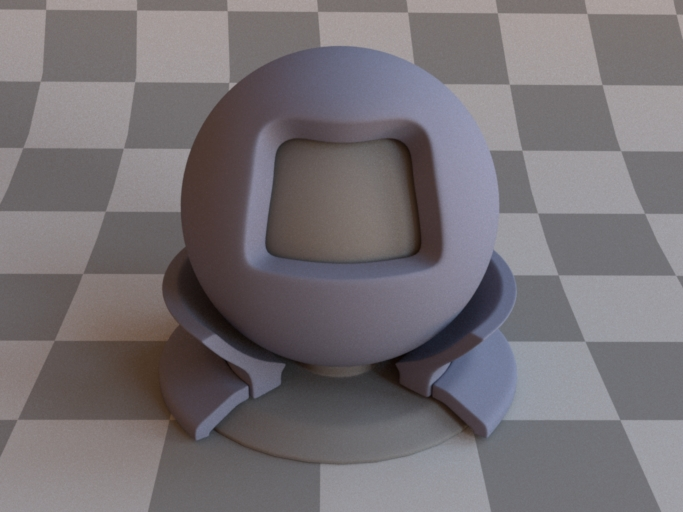
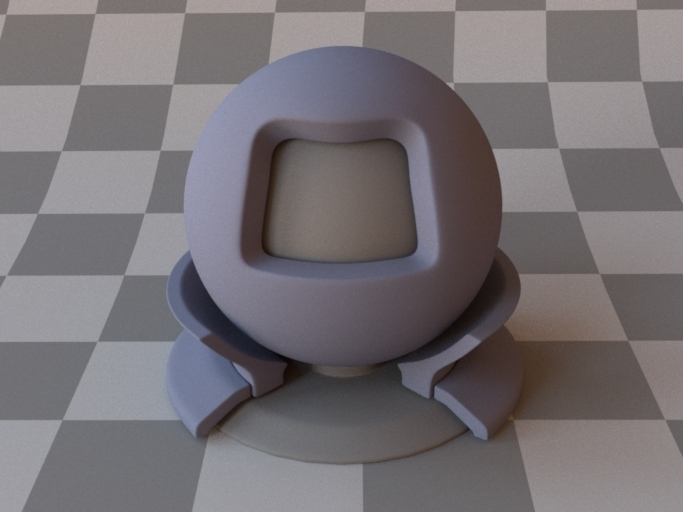
got the coating to work; more documentation
--HG--
branch : materials-0.2.1

diff --git a/src/bsdfs/coating.cpp b/src/bsdfs/coating.cpp
@@ -30,10 +30,45 @@ MTS_NAMESPACE_BEGIN
  *      numerically or using a known material name. \default{\texttt{bk7} / 1.5046}}
  *     \parameter{extIOR}{\Float\Or\String}{Exterior index of refraction specified
  *      numerically or using a known material name. \default{\texttt{air} / 1.000277}}
+ *     \parameter{sigmaA}{\Spectrum\Or\Texture}{Absorption coefficient within the layer. \default{0}}
+ *     \parameter{thickness}{\Float}{Thickness of the absorbing layer (given in inverse units of \code{sigmaA})\default{1}}
+ * }
+ * 
+ * \renderings{
+ *     \rendering{Coated rough copper (lower exposure, \lstref{coating-roughcopper})}
+ *         {bsdf_coating_roughconductor}
+ *     \rendering{Coated rough plastic}
+ *         {bsdf_coating_roughplastic}
  * }
  *
- * This class implements a smooth dielectric coating in the style of 
- * Weidlich and Wilkie \cite{Weidlich2007Arbitrarily}.
+ * This plugin implements a smooth dielectric coating in the style of the
+ * paper ``Arbitrarily Layered Micro-Facet Surfaces'' by Weidlich and 
+ * Wilkie \cite{Weidlich2007Arbitrarily}. Any non-transmissive model can
+ * be coated, and multiple layers can be applied in sequence. This allows
+ * designing custom materials like car paint.
+ *
+ * The coating layer can optionally be filled with an absorbing medium, 
+ * in which case this model also accounts for the directionally dependent
+ * extinction within the layer.
+ *
+ * Evaluating the internal component of this model entails refracting the 
+ * incident and exitant rays through the dielectric interface, followed by
+ * querying the nested material with this modified direction pair. The result 
+ * is attenuated by the two Fresnel transmittances. Note that this model does
+ * not attempt to handle illumination that is reflected by the interior of the 
+ * coating---this energy is essentially lost.
+ *
+ * \vspace{4mm}
+ *
+ * \begin{xml}[caption=Rough copper coated with a transparent layer of lacquer, label=lst:coating-roughcopper]
+ * <bsdf type="coating">
+ *     <float name="intIOR" value="1.7"/>
+ *     <bsdf type="roughconductor">
+ *         <string name="material" value="Cu"/>
+ *         <float name="alpha" value="0.1"/>
+ *     </bsdf>
+ * </bsdf>
+ * \end{xml}
  */
 class SmoothCoating : public BSDF {
 public:
@@ -45,12 +80,12 @@ public:
 		/* Specifies the external index of refraction at the interface */
 		m_extIOR = lookupIOR(props, "extIOR", "air");
 		
-		/* Specifies the layer's thickness using the inverse units of sigmaT */
-		m_thickness = props.getFloat("thickness", 1);
+		/* Specifies the absorption within the layer */
+		m_sigmaA = new ConstantSpectrumTexture(
+			props.getSpectrum("sigmaA", Spectrum(0.0f)));
 
-		/* Specifies the attenuation within the varnish layer */
-		m_sigmaT = new ConstantSpectrumTexture(
-			props.getSpectrum("sigmaT", Spectrum(0.0f)));
+		/* Specifies the layer's thickness using the inverse units of sigmaA */
+		m_thickness = props.getFloat("thickness", 1);
 	}
 
 	SmoothCoating(Stream *stream, InstanceManager *manager) 
@@ -59,7 +94,7 @@ public:
 		m_extIOR = stream->readFloat();
 		m_thickness = stream->readFloat();
 		m_nested = static_cast<BSDF *>(manager->getInstance(stream));
-		m_sigmaT = static_cast<Texture *>(manager->getInstance(stream));
+		m_sigmaA = static_cast<Texture *>(manager->getInstance(stream));
 		configure();
 	}
 
@@ -71,12 +106,12 @@ public:
 				"with a transmission component -- this is currently not allowed!");
 
 		m_components.clear();
-		for (int i=0; i<m_nested->getComponentCount(); ++i)
+		for (int i=0; i<m_nested->getComponentCount(); ++i) 
 			m_components.push_back(m_nested->getType(i));
 		m_components.push_back(EDeltaReflection | EFrontSide);
 		
 		m_usesRayDifferentials = m_nested->usesRayDifferentials()
-			|| m_sigmaT->usesRayDifferentials();
+			|| m_sigmaA->usesRayDifferentials();
 
 		BSDF::configure();
 	}
@@ -88,7 +123,7 @@ public:
 		stream->writeFloat(m_extIOR);
 		stream->writeFloat(m_thickness);
 		manager->serialize(stream, m_nested.get());
-		manager->serialize(stream, m_sigmaT.get());
+		manager->serialize(stream, m_sigmaA.get());
 	}
 
 	void addChild(const std::string &name, ConfigurableObject *child) {
@@ -118,8 +153,7 @@ public:
 	/// Refraction in local coordinates (full version)
 	inline Vector refract(const Vector &wi, Float &F) const {
 		Float cosThetaI = Frame::cosTheta(wi),
-			  etaI = m_extIOR,
-			  etaT = m_intIOR;
+			  etaI = m_extIOR, etaT = m_intIOR;
 
 		bool entering = cosThetaI > 0.0f;
 
@@ -132,14 +166,13 @@ public:
 		Float eta = etaI / etaT,
 			  sinThetaTSqr = eta*eta * Frame::sinTheta2(wi);
 
-		Float cosThetaT = 0;
 		if (sinThetaTSqr >= 1.0f) {
 			/* Total internal reflection */
 			F = 1.0f;
 
 			return Vector(0.0f);
 		} else {
-			cosThetaT = std::sqrt(1.0f - sinThetaTSqr);
+			Float cosThetaT = std::sqrt(1.0f - sinThetaTSqr);
 
 			/* Compute the Fresnel transmittance */
 			F = fresnelDielectric(std::abs(Frame::cosTheta(wi)),
@@ -169,24 +202,25 @@ public:
 			BSDFQueryRecord bRec2(bRec);
 			bRec2.wi = -refract(bRec.wi, R12);
 			bRec2.wo = -refract(bRec.wo, R21);
-			Assert(bRec2.wi.z >= 0);
-			Assert(bRec2.wo.z >= 0);
 
 			if (R12 == 1 || R21 == 1) /* Total internal reflection */
 				return Spectrum(0.0f);
 
 			Spectrum result = m_nested->eval(bRec2, measure)
 				* ((1-R12) * (1-R21));
-
-			Spectrum sigmaT = m_sigmaT->getValue(bRec.its) * m_thickness;
-			if (!sigmaT.isZero()) 
-				result *= (-sigmaT *
+			
+			Spectrum sigmaA = m_sigmaA->getValue(bRec.its) * m_thickness;
+			if (!sigmaA.isZero()) 
+				result *= (-sigmaA *
 					(1/std::abs(Frame::cosTheta(bRec2.wi)) +
 					 1/std::abs(Frame::cosTheta(bRec2.wo)))).exp();
 
 			if (measure == ESolidAngle)
 				result *= Frame::cosTheta(bRec2.wo);
-				
+
+			Float eta = m_extIOR / m_intIOR;
+			result *= eta * eta;
+
 			return result;
 		}
 	
@@ -215,12 +249,13 @@ public:
 
 			if (R12 == 1 || R21 == 1) /* Total internal reflection */
 				return 0.0f;
+		
+			Float pdf = m_nested->pdf(bRec2, measure)
+				* Frame::cosTheta(bRec.wo)
+				/ Frame::cosTheta(bRec2.wo);
 
-			Float pdf = m_nested->pdf(bRec2, measure);
-			if (measure == ESolidAngle) {
-				Float eta = m_extIOR / m_intIOR;
-				pdf /= eta * eta;
-			}
+			Float eta = m_extIOR / m_intIOR;
+			pdf *= eta * eta;
 
 			return sampleSpecular ? (pdf * (1-R12)) : pdf;
 		} else {
@@ -234,7 +269,7 @@ public:
 		bool sampleNested = (bRec.typeMask & m_nested->getType() & BSDF::EAll)
 			&& (bRec.component == -1 || bRec.component < (int) m_components.size()-1);
 
-		if ((!sampleNested && !sampleNested) || Frame::cosTheta(bRec.wi) < 0)
+		if ((!sampleSpecular && !sampleNested) || Frame::cosTheta(bRec.wi) <= 0)
 			return Spectrum(0.0f);
 
 		/* Refract the incident direction and compute the Fresnel reflectance */
@@ -250,54 +285,52 @@ public:
 					-cosThetaT, m_extIOR, m_intIOR);
 		}
 
+		bool choseSpecular = sampleSpecular;
+
 		Point2 sample(_sample);
-		if (sampleNested && sampleNested) {
-			if (sample.x <= R12) {
-				bRec.sampledComponent = m_components.size()-1;
-				bRec.sampledType = EDeltaReflection;
-				bRec.wo = reflect(bRec.wi);
-				pdf = R12;
-				return Spectrum(R12);
-			} else {
-				Vector wiBackup = bRec.wi;
-			//	bRec.wi = -refract(bRec.wi, eta, cosThetaT);
-				bRec.wi = -refract(bRec.wi, R12);
+		if (sampleSpecular && sampleNested) {
+			if (sample.x > R12) {
 				sample.x = (sample.x - R12) / (1 - R12);
-
-				Spectrum result = m_nested->sample(bRec, pdf, sample);
-				if (result.isZero())
-					return Spectrum(0.0f);
-
-				Spectrum sigmaT = m_sigmaT->getValue(bRec.its) * m_thickness;
-				if (!sigmaT.isZero()) 
-					result *= (-sigmaT *
-						(1/std::abs(Frame::cosTheta(bRec.wi)) +
-						 1/std::abs(Frame::cosTheta(bRec.wo)))).exp();
-
-				Float R21, cosThetaWoPrime = Frame::cosTheta(bRec.wo);
-				bRec.wi = wiBackup;
-				bRec.wo = refract(-bRec.wo, R21);
-
-				if (R21 == 1.0f) /* Total internal reflection */
-					return Spectrum(0.0f);
-	
-				pdf *= 1 - R12;
-				if (BSDF::getMeasure(bRec.sampledType) == ESolidAngle)
-					pdf /= eta * eta;
-
-				result *= (1 - R12) * (1 - R21) * cosThetaWoPrime;
-
-				return result;
+				choseSpecular = false;
 			}
-		} else if (sampleSpecular) {
-			bRec.sampledComponent = 0;
+		}
+		
+		if (choseSpecular) {
+			bRec.sampledComponent = m_components.size()-1;
 			bRec.sampledType = EDeltaReflection;
 			bRec.wo = reflect(bRec.wi);
-			pdf = 1.0f;
+			pdf = sampleNested ? R12 : 1.0f;
 			return Spectrum(R12);
 		} else {
-			// XXX not implemented
-			return Spectrum(0.0f);
+			if (R12 == 1.0f) /* Total internal reflection */
+				return Spectrum(0.0f);
+
+			Vector wiBackup = bRec.wi;
+			bRec.wi = -refract(bRec.wi, eta, cosThetaT);
+
+			Spectrum result = m_nested->sample(bRec, pdf, sample);
+			if (result.isZero()) 
+				return Spectrum(0.0f);
+
+			Spectrum sigmaA = m_sigmaA->getValue(bRec.its) * m_thickness;
+			if (!sigmaA.isZero()) 
+				result *= (-sigmaA *
+					(1/std::abs(Frame::cosTheta(bRec.wi)) +
+					 1/std::abs(Frame::cosTheta(bRec.wo)))).exp();
+
+			Float R21, cosThetaWoPrime = Frame::cosTheta(bRec.wo);
+			bRec.wo = refract(-bRec.wo, R21);
+			bRec.wi = wiBackup;
+
+			if (R21 == 1.0f) /* Total internal reflection */
+				return Spectrum(0.0f);
+
+			pdf *= (sampleSpecular ? (1 - R12) : 1.0f) * eta * eta *
+				Frame::cosTheta(bRec.wo) / cosThetaWoPrime;
+
+			result *= (1 - R12) * (1 - R21) * cosThetaWoPrime * eta * eta;
+
+			return result;
 		}
 	}
 
@@ -317,7 +350,7 @@ public:
 			<< "  name = \"" << getName() << "\"," << endl
 			<< "  intIOR = " << m_intIOR << "," << endl 
 			<< "  extIOR = " << m_extIOR << "," << endl
-			<< "  sigmaT = " << indent(m_sigmaT->toString()) << "," << endl
+			<< "  sigmaA = " << indent(m_sigmaA->toString()) << "," << endl
 			<< "  thickness = " << m_thickness << "," << endl
 			<< "  nested = " << indent(m_nested->toString()) << endl
 			<< "]";
@@ -327,11 +360,11 @@ public:
 	MTS_DECLARE_CLASS()
 private:
 	Float m_intIOR, m_extIOR;
-	ref<Texture> m_sigmaT;
+	ref<Texture> m_sigmaA;
 	ref<BSDF> m_nested;
 	Float m_thickness;
 };
 
 MTS_IMPLEMENT_CLASS_S(SmoothCoating, false, BSDF)
-MTS_EXPORT_PLUGIN(SmoothCoating, "Smooth varnish layer");
+MTS_EXPORT_PLUGIN(SmoothCoating, "Smooth dielectric coating");
 MTS_NAMESPACE_END

diff --git a/src/bsdfs/mixture.cpp b/src/bsdfs/mixture.cpp
@@ -22,10 +22,43 @@
 
 MTS_NAMESPACE_BEGIN
 
-/**
- * Mixture material, represents a linear combination of 
- * one or more BRDFs.
+/*! \plugin{mixture}{Mixture material}
+ *
+ * \parameters{
+ *     \parameter{weights}{\String}{A comma-separated list of BSDF weights}
+ * }
+ * \renderings{
+ *     \rendering{An exemplary combination of BSDFs 
+ *     (\lstref{mixture-example})}{bsdf_mixture_test}
+ * }
+ *
+ * This plugin implements a ``mixture'' material, which represents  
+ * linear combinations of multiple BSDF instances. Any surface scattering
+ * model in Mitsuba (be it smooth, rough, reflecting, or transmitting) can 
+ * be mixed with others in this manner to synthesize new models. There
+ * is no limit on how many models can be mixed, but their combination
+ * weights must be nonnegative and sum to less than one to ensure 
+ * energy balance.
+ *
+ * \vspace{4mm}
+ * \begin{xml}[caption={A material definition for a mixture of 70% smooth
+ *     chromium, 20% of a greenish rough diffuse material (and 10% absorption)},
+ *     label=lst:mixture-example]
+ * <bsdf type="mixture">
+ *     <string name="weights" value="0.7, 0.2"/>
+ *
+ *     <bsdf type="conductor">
+ *         <string name="material" value="Cr"/>
+ *     </bsdf>
+ *
+ *     <bsdf type="roughdiffuse">
+ *         <rgb name="reflectance" value=".7 1 .7"/>
+ *         <float name="alpha" value="0.4"/>
+ *     </bsdf>
+ * </bsdf>
+ * \end{xml}
  */
+
 class MixtureBSDF : public BSDF {
 public:
 	MixtureBSDF(const Properties &props) 

diff --git a/src/bsdfs/dielectric.cpp b/src/bsdfs/dielectric.cpp
@@ -212,8 +212,7 @@ public:
 	/// Refraction in local coordinates (full version)
 	inline Vector refract(const Vector &wi) const {
 		Float cosThetaI = Frame::cosTheta(wi),
-			  etaI = m_extIOR,
-			  etaT = m_intIOR;
+			  etaI = m_extIOR, etaT = m_intIOR;
 
 		bool entering = cosThetaI > 0.0f;
 

diff --git a/src/bsdfs/irawan.cpp b/src/bsdfs/irawan.cpp
@@ -72,7 +72,6 @@ MTS_NAMESPACE_BEGIN
  *     \unframedmedrendering{Silk shantung}{bsdf_irawan_shantung}
  *     \unframedmedrendering{Cotton twill}{bsdf_irawan_twill}
  * }
- *
  */
 class IrawanClothBRDF : public BSDF {
 public:
